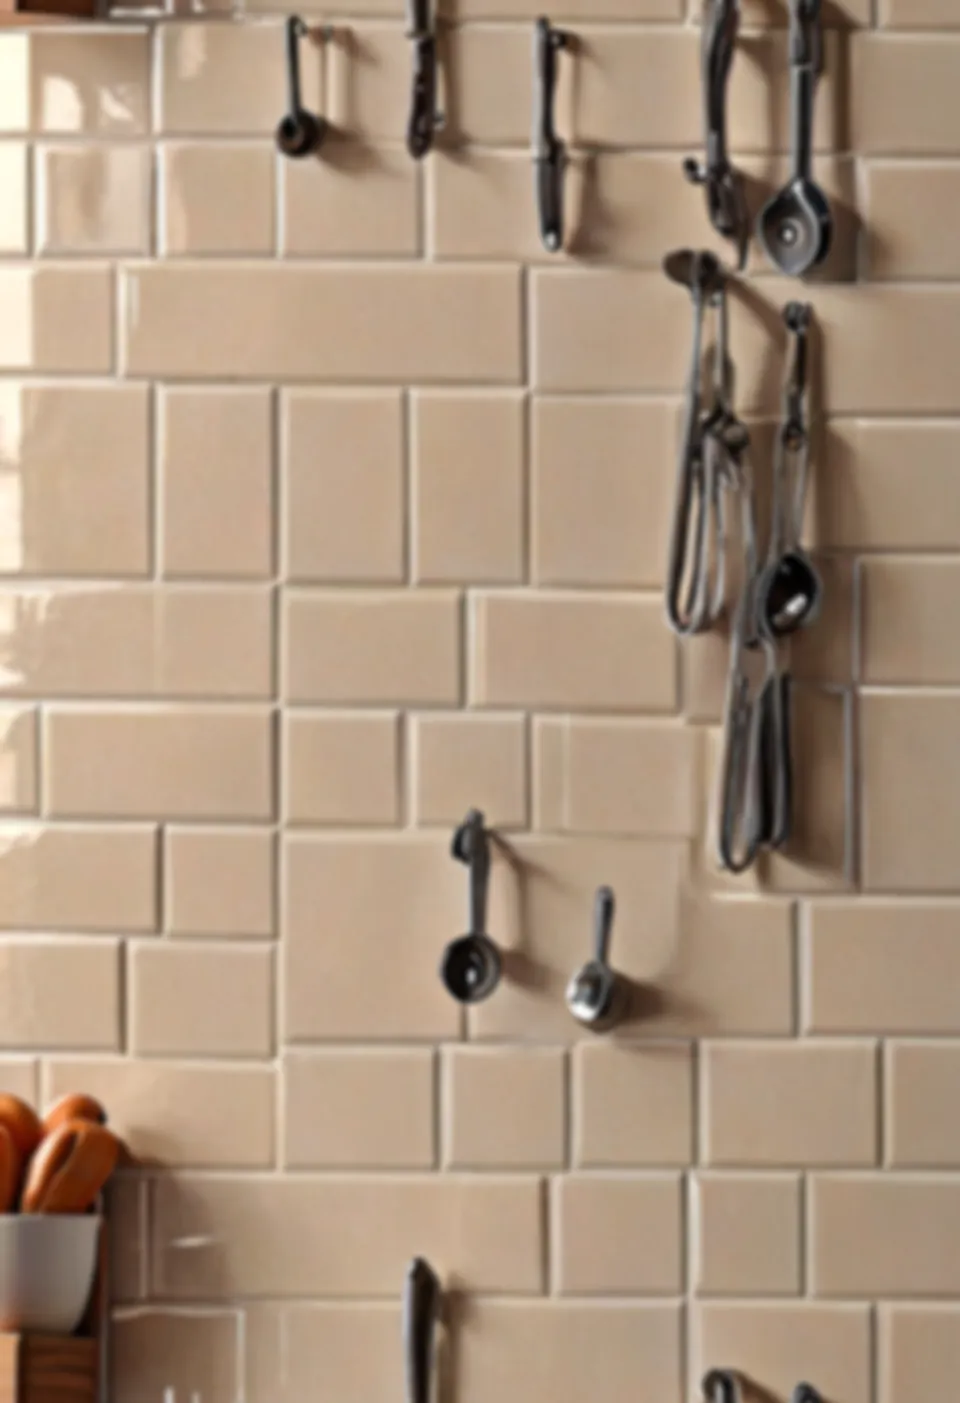
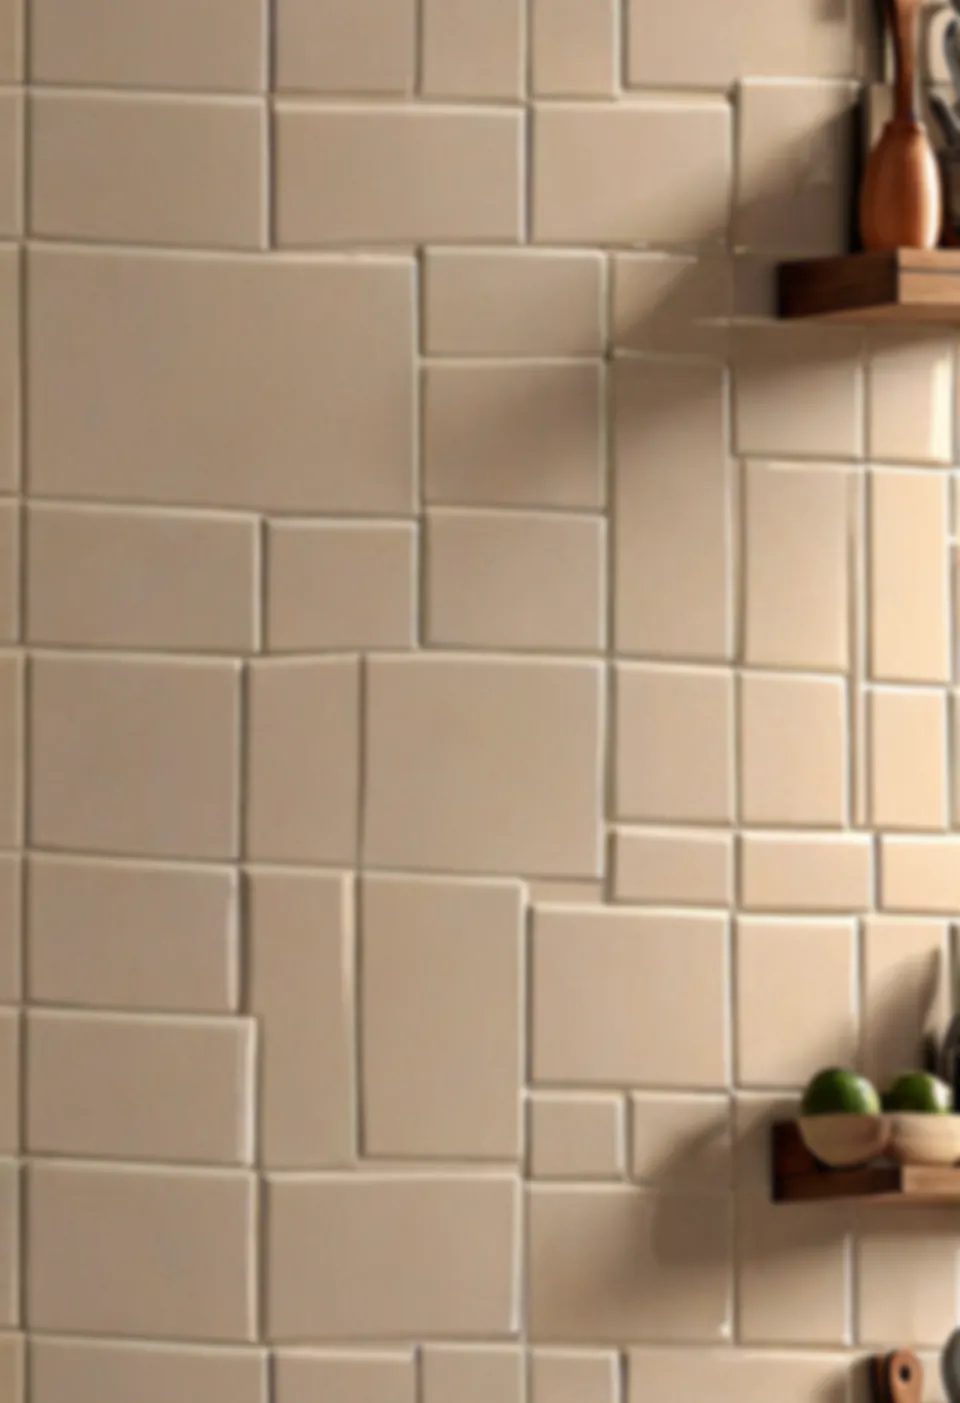
feat(art): память — только текущая и следующая темы; задник раковины; документация

diff --git a/tools/test_render.js b/tools/test_render.js
@@ -124,10 +124,14 @@ const ctx = new Proxy({}, { get: (t, k) => k === 'fillText' ? s => texts.push(St
     document.createElement = () => createCanvas(1, 1);
     const b = d4.fieldBounds(); assert.strictEqual(d4.artBg('fridge', b), false, 'без картинок арта нет');
     const t0 = Date.now(); d4.ART_IMG.oven = null; await d4.artPrepare('oven', 60); assert.ok(Date.now() - t0 < 1000 && !d4.ART.oven, 'картинки не пришли — ждём не дольше maxMs и живём без арта');
+    assert.strictEqual(d4.artWarm(), false, 'прогрев: следующая тема ещё не готова'); d4.ART_IMG.oven = undefined; delete d4.ART_IMG.oven;
     const pic = (w, h, c) => { const cv = createCanvas(w, h), g = cv.getContext('2d'); g.fillStyle = c; g.fillRect(0, 0, w, h); return cv; };
-    for (const theme of Object.keys(d4.ART_SRC)) { // каждая тема: картинки-заглушки по списку имён, слои, покрытие поля
+    for (const theme of Object.keys(d4.ART_SRC)) { // каждая тема: картинки-заглушки по списку имён, слои, покрытие поля, бюджет памяти
       d4.ART_IMG[theme] = Object.fromEntries(d4.ART_SRC[theme].map((n, i) => [n, pic(n === 'back' ? 96 : 30 + i * 7, n === 'back' ? 140 : 72, n === 'back' ? '#889' : '#a75')]));
       await d4.artPrepare(theme); const a = d4.ART[theme]; assert.ok(a && a.back.length >= 2 && a.front.length >= 1 && typeof a.anim === 'function', 'слои темы ' + theme + ' испечены');
+      const mpx = a.back.concat(a.front).reduce((s, l) => s + l.c.width * l.c.height, 0) / 1e6; assert.ok(mpx <= 6, theme + ': холсты слоёв ' + mpx.toFixed(1) + ' МПкс, не больше 6');
+      await d4.artPrepare(theme); assert.strictEqual(d4.ART[theme], a, 'повторный artPrepare (смерть, «Продолжить», «Заново») не печёт заново');
+      assert.ok(Object.keys(d4.ART).length <= 2, 'испечены не больше двух тем — текущая и следующая, память телефона');
       for (const cy of [0, -1234, -5000, -12345]) { d4.setCamY(cy); rctx.fillStyle = '#f0f'; rctx.fillRect(0, 0, 480, 854); assert.ok(d4.artBg(theme, b), 'арт рисуется');
         const px = rctx.getImageData(0, 0, 480, 854).data; let holes = 0; for (let y = 0; y < 854; y += 20) for (let x = 0; x < 480; x += 20) { const i = (y * 480 + x) * 4; if (px[i] === 255 && px[i + 1] === 0 && px[i + 2] === 255) holes++; }
         assert.strictEqual(holes, 0, theme + ', camY ' + cy + ': поле покрыто без щелей'); } }

diff --git a/src/main.js b/src/main.js
@@ -11,8 +11,7 @@ async function boot() {
   startTower(save.tower, save.cp); state = 'title';
   YG.onPause(pauseGame); YG.onResume(resumeGame);
   await artPrepare(tower.tp.theme); // экран загрузки ждёт картинки первой темы (не дольше ART_WAIT_MS) и печёт её слои
-  booted = true;
-  const warm = setInterval(() => { if (artWarm()) clearInterval(warm); }, 700); // остальные темы допекаются между кадрами титула
+  booted = true; artWarmLoop();
   draw();       // титул на экране — игра готова к взаимодействию
   YG.ready();
 }
@@ -41,7 +40,7 @@ async function showAd(fn) {
 async function goPlay(kind) {
   plays++;
   if (plays > 1 && sessionT - lastAdAt >= AD_INTERVAL) { const r = await showAd(() => YG.showInterstitial()); if (r.shown) lastAdAt = sessionT; }
-  if (kind === 'cp') restartFromCp(); else if (kind === 'restart') restartTower(); else if (kind === 'next') { nextTower(); artPrepare(tower.tp.theme, 0); } else state = 'play'; // новая башня: слои её темы печём до первого кадра
+  if (kind === 'cp') restartFromCp(); else if (kind === 'restart') restartTower(); else if (kind === 'next') { nextTower(); artPrepare(tower.tp.theme, 0).then(artWarmLoop); } else state = 'play'; // новая башня: её тема уже испечена прогревом, следующую греем дальше
   YG.gameplayStart();
 }
 async function tryContinue() {
@@ -111,6 +110,8 @@ function frame(now) {
 }
 requestAnimationFrame(frame);
 expose({ get paused() { return paused; }, get awaitTap() { return awaitTap; }, get adBusy() { return adBusy; }, forceAdReady() { lastAdAt = -1e9; }, pauseGame, resumeGame, goPlay });
+let warmTimer = null; // прогрев темы следующей башни между кадрами (спека v2.2c §6): один таймер, перезапускается при переходе
+function artWarmLoop() { clearInterval(warmTimer); warmTimer = setInterval(() => { if (artWarm()) clearInterval(warmTimer); }, 700); }
 // старт загрузки: в продакшене сразу при загрузке скрипта; тесты ставят CFG.manualBoot и зовут startBoot() сами
 function startBoot() { if (!DBG.boot) DBG.boot = boot().catch(e => { console.error('boot failed', e); booted = true; if (!tower) startTower(1, 0); state = 'title'; YG.ready(); }); return DBG.boot; }
 expose({ startBoot });

diff --git a/src/art.js b/src/art.js
@@ -32,11 +32,14 @@ function artPrepare(theme, maxMs = ART_WAIT_MS) {
   const wait = ART_IMG[theme] === null && maxMs > 0 ? new Promise(res => { (ART_WAIT[theme] = ART_WAIT[theme] || []).push(res); setTimeout(res, maxMs); }) : Promise.resolve();
   return wait.then(() => { artGet(theme); });
 }
-// прогрев: печёт по одной ещё не испечённой теме с пришедшими картинками за вызов; true — всё готово, звать больше не нужно
+// память телефона: испечёнными живут только тема текущей башни и тема следующей (≈ 19 МБ холстов на тему), остальные выбрасываются
+function artNext() { return tower ? themeFor(tower.tp.N + 1).id : null; }
+function artEvict(keep) { for (const t in ART) if (t !== keep && t !== artNext()) delete ART[t]; }
+// прогрев следующей темы между кадрами: true — готово (или картинок нет), звать больше не нужно; false — звать ещё
 function artWarm() {
-  for (const t in ART_SRC) if (!(t in ART) && ART_IMG[t]) { artGet(t); return false; }
-  for (const t in ART_SRC) if (!(t in ART) && ART_IMG[t] === null) return false;
-  return true;
+  const n = artNext(); if (!n || n in ART || ART_IMG[n] === false || ART_IMG[n] === undefined) return true;
+  if (ART_IMG[n] === null) return false;
+  artGet(n); return true;
 }
 // размытие глубины резкости: три прохода box-blur ≈ гаусс в premultiplied alpha; по вертикали по кругу — слой повторяется без шва
 function artBlur(g, w, h, r) {
@@ -73,6 +76,7 @@ function artGet(theme) {
   const im = ART_IMG[theme];
   if (im === null || im === undefined) return null;   // ещё грузится или картинок нет — пока старый фон
   try { ART[theme] = im && ART_BAKE[theme] ? ART_BAKE[theme](im) : null; } catch (e) { ART[theme] = null; }
+  artEvict(theme);
   return ART[theme];
 }
 function artBg(theme, b) { // фон темы из картинок; false — арта нет, рисует старый фон

diff --git a/docs/DEVLOG.md b/docs/DEVLOG.md
@@ -18,11 +18,38 @@
   владельца — план `docs/plans/2026-09-25-v2-2a-themes.md`, спека `docs/specs/2026-09-25-v2-2a-themes-design.md`: пять тем
   с фонами и нижней смертельной полосой, плашка темы, полка, тостер, миска, лопатка-батут, доска с ножом; по плейтесту
   владельца (спека §15) — финиш по линии крыши, медленный подъём мух, плавная камера с привязкой к платформе, кнопка
-  берсерка. Фоны тем — временные: владелец назвал их дешёвыми.
-  Дальше этап арта: фоны «как у Pixar» (стилизованные локации, лёгкое размытие, параллакс), начать с пробы в коде на
-  холодильнике; потом v2.2b (правила тем второго круга и вторые уникальности), «Подборы и финиш», «Титул и летопись»;
-  скины за S — v2.3.
+  берсерка. 29.09 — новые муха и налив стартуют только со стоящей Тефы.
+- v2.2c «Арт тем» на ветке `v2-2c-art` по спеке `docs/specs/2026-09-29-v2-2c-art-design.md`: фоны пяти тем из
+  сгенерированных картинок (задник + вещи-герои на опорах, слои с параллаксом и размытием, движение), картинки в
+  `assets/art/`, генератор — вне репо (`~/myfolder/Games/sd-local`). Слияние — по «да» владельца.
+  Дальше v2.2b (правила тем второго круга и вторые уникальности), «Подборы и финиш», «Титул и летопись»; скины за S — v2.3.
 - SDK живьём не проверялся (нужен черновик в консоли владельца). Экономика, графика окружения и звук черновые.
+
+## 2026-09-29 — Сессия 9: v2.2c, арт тем из картинок
+
+**Как пришли** (25–29.09). Владелец: фоны v2.2a дешёвые, нужны «стилизованные локации как у Pixar, с небольшим блюром
+и моушеном, в холодильнике большой кусок арбуза». Проба кодом (фигуры Canvas) отвергнута: «должен быть прям хороший
+нарисованный холодильник, как будто мы внутри; у Pixar почти всё реалистично, только мультяшно». Проба из картинок,
+сгенерированных на его RTX 3050 (SDXL DreamShaper XL Lightning, фон вещей вырезан rembg), принята: «уровень
+холодильник получился очень крутым, сделай в таком же стиле остальные».
+
+**Сделано** (план из шести задач, код прошёл прототип)
+- `src/art.js`: картинки грузятся при старте, экран загрузки ждёт первую тему не дольше 3 с, слои печёт `artPrepare`
+  до первого кадра, следующую тему греет `artWarm`; испечёнными живут только текущая и следующая — ≈ 19 МБ холстов на
+  тему. Без картинок — старый фон.
+- Пять тем: холодильник (арбуз, молоко, яйца, огурцы, виноград, брокколи), кухня (кастрюля, доска с луком, тёрка,
+  чайник с паром, полотенце, ложки), духовка (противень с булочками, курица в фольге, пирог, картофель, щипцы,
+  угольки), раковина (тарелки в пене, средство, чашка, щётка, пена, пузыри), праздничный стол (торт, фрукты, бокал,
+  подарок, крекеры, свеча, гирлянда). Картинки ≈ 1.7 МБ на все темы.
+- Снимки `theme_*` показывают арт: `tools/_art.js` декодирует WebP через `sharp`.
+
+**Решения по ходу** (в спеке §12)
+- Губка раковины убрана: жёлто-зелёный брусок не отличить от платформы-сыра. Капля с крана убрана: кран у верха
+  экрана спутался бы с половником налива.
+- Задники кухни и раковины перегенерированы: первые выходили с висящей утварью и раковинами-сливами; задник обязан
+  быть пустым — вещи ставит код.
+- Красное приглушено размером и туманом: кастрюля бело-красная, рукавица меньше, скатерть в клетку под тёмно-зелёным
+  туманом — оранжево-красный опасности читается на всех темах (проверено на снимках `hazards`, `theme_feast`).
 
 ## 2026-09-25 — Сессия 8: v2.2a, темы башен и нижняя граница
 

diff --git a/docs/specs/2026-09-29-v2-2c-art-design.md b/docs/specs/2026-09-29-v2-2c-art-design.md
@@ -98,3 +98,17 @@
 
 - Вес: если пять тем выйдут за 2.5 МБ, задник хранить в 720 px шириной вместо 960.
 - Если герой темы упорно генерируется с текстом (пакеты, банки), брать вариант без этикетки или закрывать её кодом.
+
+## 12. Решения при реализации (2026-09-29)
+
+- Губка раковины (§4) убрана из сцены: жёлто-зелёный брусок не отличить от платформы-сыра. Капля с крана (§4) убрана:
+  кран у верха экрана спутался бы с половником налива масла.
+- Задники обязаны быть пустыми — вещи ставит код: задники кухни и раковины перегенерированы (первые выходили с висящей
+  утварью и раковинами со сливами).
+- Память: испечёнными живут только тема текущей башни и тема следующей (`artEvict`, `artWarm` греет только следующую);
+  холсты слоёв темы ≤ 6 МПкс (тест). Пять тем разом — ≈ 94 МБ, это много для телефона.
+- Прогрев следующей темы перезапускается при переходе на башню (`artWarmLoop` в `main.js`).
+- Красное в героях приглушается размером и туманом (кастрюля бело-красная, рукавица 190 px), красная клетка скатерти —
+  под тёмно-зелёным туманом 30 %; оранжево-красный опасности читается на всех темах по снимкам.
+- Передний план — узкая вещь у левого края (стакан с ложками, щипцы, средство, бокал, бутылка), не широкая: широкая
+  размытая вещь закрывала треть экрана.
